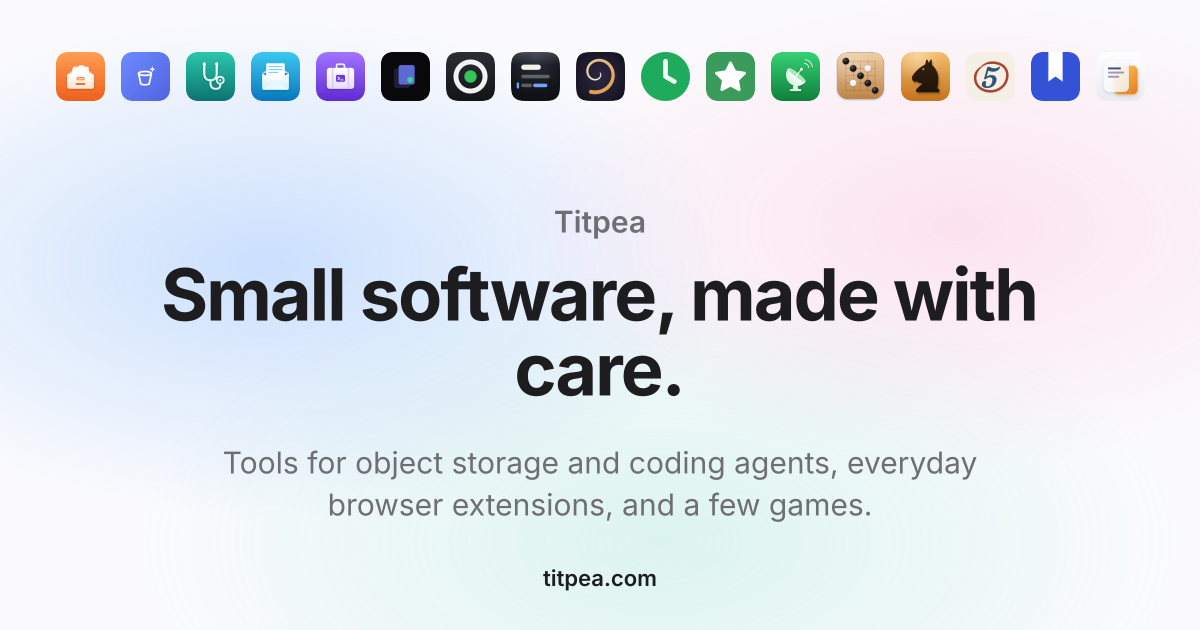
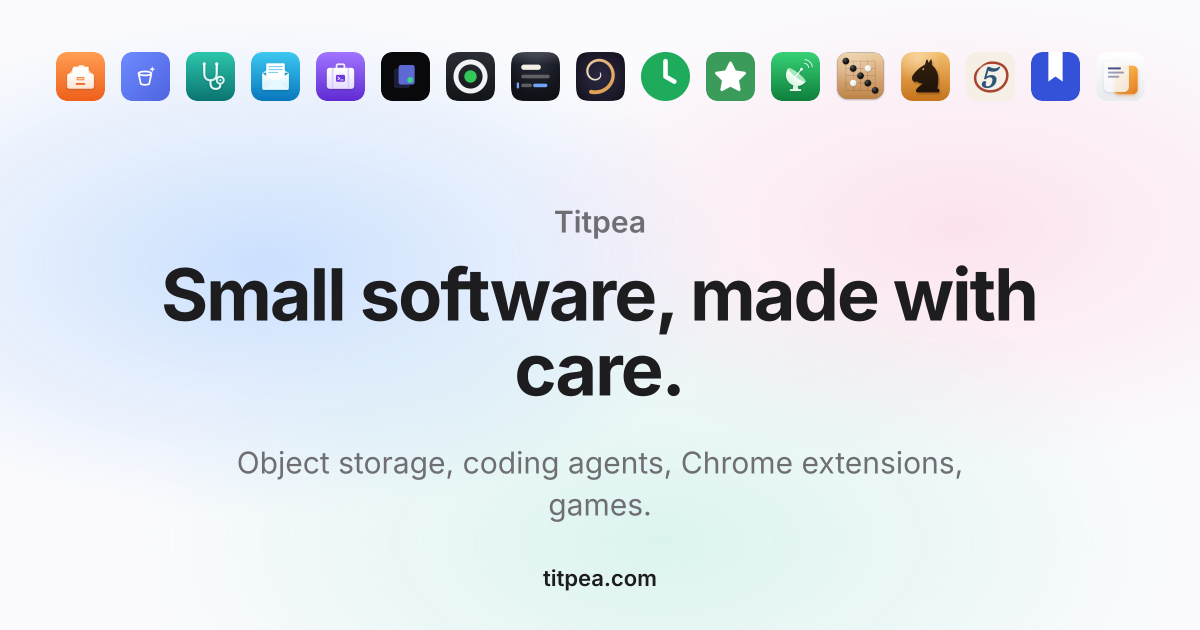
Home: the lede names the four directions
Claude-Session: https://claude.ai/code/session_01JmaFxrCaTr7J8dy17sm4dB

Changed region(s): [[0.185, 0.6937, 0.8325, 0.8444]]

diff --git a/src/content/site.ts b/src/content/site.ts
@@ -178,7 +178,7 @@ export const ui: Record<Locale, Ui> = {
     homeTitle: "Small software, made with care.",
     homeDescription:
       "Software by one developer, hxddh: tools for object storage and coding agents, browser extensions for everyday reading, desktop board games, and a small world.",
-    homeLead: "Tools for object storage and coding agents, everyday browser extensions, and a few games.",
+    homeLead: "Object storage, coding agents, Chrome extensions, games.",
     featuredTitle: "Selected work",
     moreToolsTitle: "Every tool",
     relatedTitle: "More tools",
@@ -276,7 +276,7 @@ export const ui: Record<Locale, Ui> = {
     homeTitle: "认真做的小软件",
     homeDescription:
       "hxddh 一个人开发的软件：对象存储和编码 Agent 工具、日常用的浏览器扩展、桌面棋类游戏，以及一个小世界。",
-    homeLead: "对象存储和编码 Agent 工具，日常用的浏览器扩展，还有几款游戏。",
+    homeLead: "对象存储、编码 Agent、Chrome 扩展、游戏。",
     featuredTitle: "主要作品",
     moreToolsTitle: "全部工具",
     relatedTitle: "更多工具",

diff --git a/DESIGN.md b/DESIGN.md
@@ -54,7 +54,7 @@ On phones (every template): feature cards sit two a row; phone-shaped captures s
 
 **Settled direction — the owner decided this in October 2026 (the studio home, replacing the stacked Omni rows of PR #150 and #153), then simplified it at the owner's request, October 2026.** Home says who makes this, then lets a visitor find the right tool: hero → featured row → the four lines → footer, and nothing else. Propose a change to this direction in a pull request for the owner to decide; never push it straight to `main`.
 
-- The hero has no icon shelf (every product already appears in the catalog): it opens on the person (`One developer, hxddh` / `hxddh，一个人开发`), the title (`Small software, made with care.` / `认真做的小软件`; a `|` in the copy marks where a title may wrap, so a phone never strands a character), and a plain lede that says what kinds of software are here (`Tools for object storage and coding agents, everyday browser extensions, and a few games.` / `对象存储和编码 Agent 工具，日常用的浏览器扩展，还有几款游戏。`). No riddles: each phrase names a kind of product a visitor would recognise. Two actions: `Browse all {count} tools` jumps to the catalog (`#more-title`); `About hxddh ›` is the text link.
+- The hero has no icon shelf (every product already appears in the catalog): it opens on the person (`One developer, hxddh` / `hxddh，一个人开发`), the title (`Small software, made with care.` / `认真做的小软件`; a `|` in the copy marks where a title may wrap, so a phone never strands a character), and a plain lede that says what kinds of software are here (`Object storage, coding agents, Chrome extensions, games.` / `对象存储、编码 Agent、Chrome 扩展、游戏。`): four directions named outright, no connecting phrases (the owner shortened it in October 2026). Two actions: `Browse all {count} tools` jumps to the catalog (`#more-title`); `About hxddh ›` is the text link.
 - `Every tool` / `全部工具` is the one section. The featured products (`featured.order`: World Machine, Chessboard, Bilingual — the owner's picks; three is the ceiling) lead it as its first row of three larger cards. Each card is the screenshot (16:11, top-anchored; 16:10 on phones), role kicker, name, one line, `Learn more ›`; the whole card is one link and its image is decorative (`alt=""`). An image that is not a plain capture keeps its `featured.caption`, under the card's line. The row is named `Selected work` / `主要作品` for assistive tech. Below 960 px the row scrolls sideways (three cards do not split into two columns).
 - Then every other product, grouped by line in the header menu's order and names (`Storage`, `Agents`, `Everyday`, `Games` / `存储`, `Agent`, `日常`, `游戏`), in site order within a line. Each group is a hairline, a small quiet `h3` label (`--text-kicker`, `--muted`), and a grid of open cells: no fill, no border, no shadow; whitespace separates them. A cell is one link: the icon at 48px in its plate, the name, and `catalog.text` under it. Four columns on desktop, two on tablets, one on phones (icon left, name and line right). No pictures, chips, filters, families or release strip: versions, dates and platforms live on the product page and Releases, and families on the product pages that belong to them.
 
